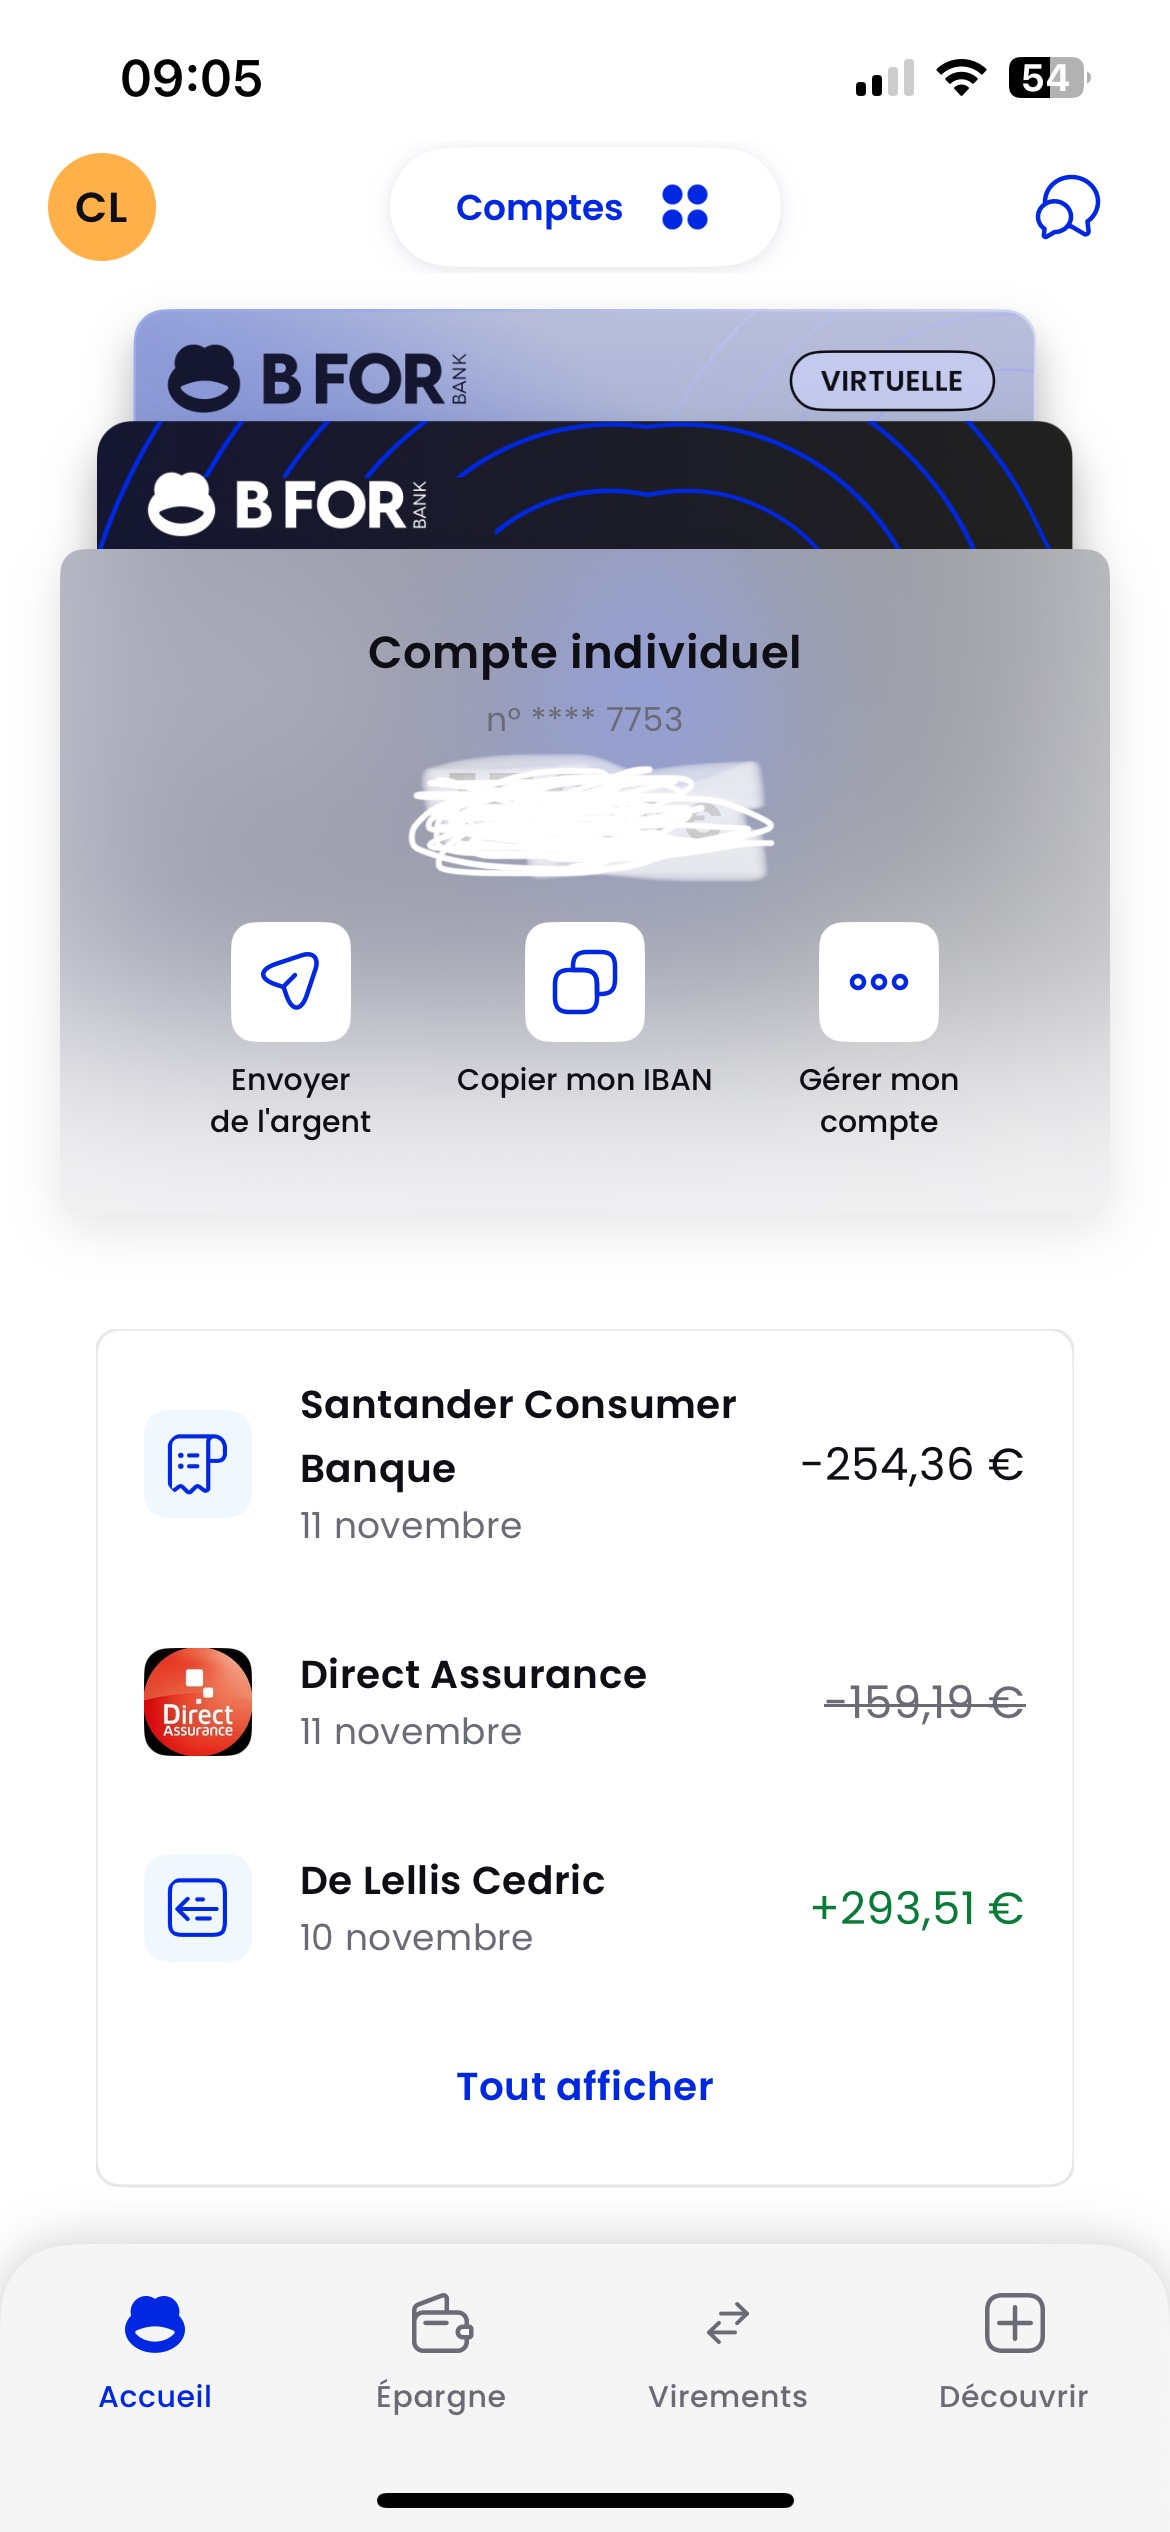
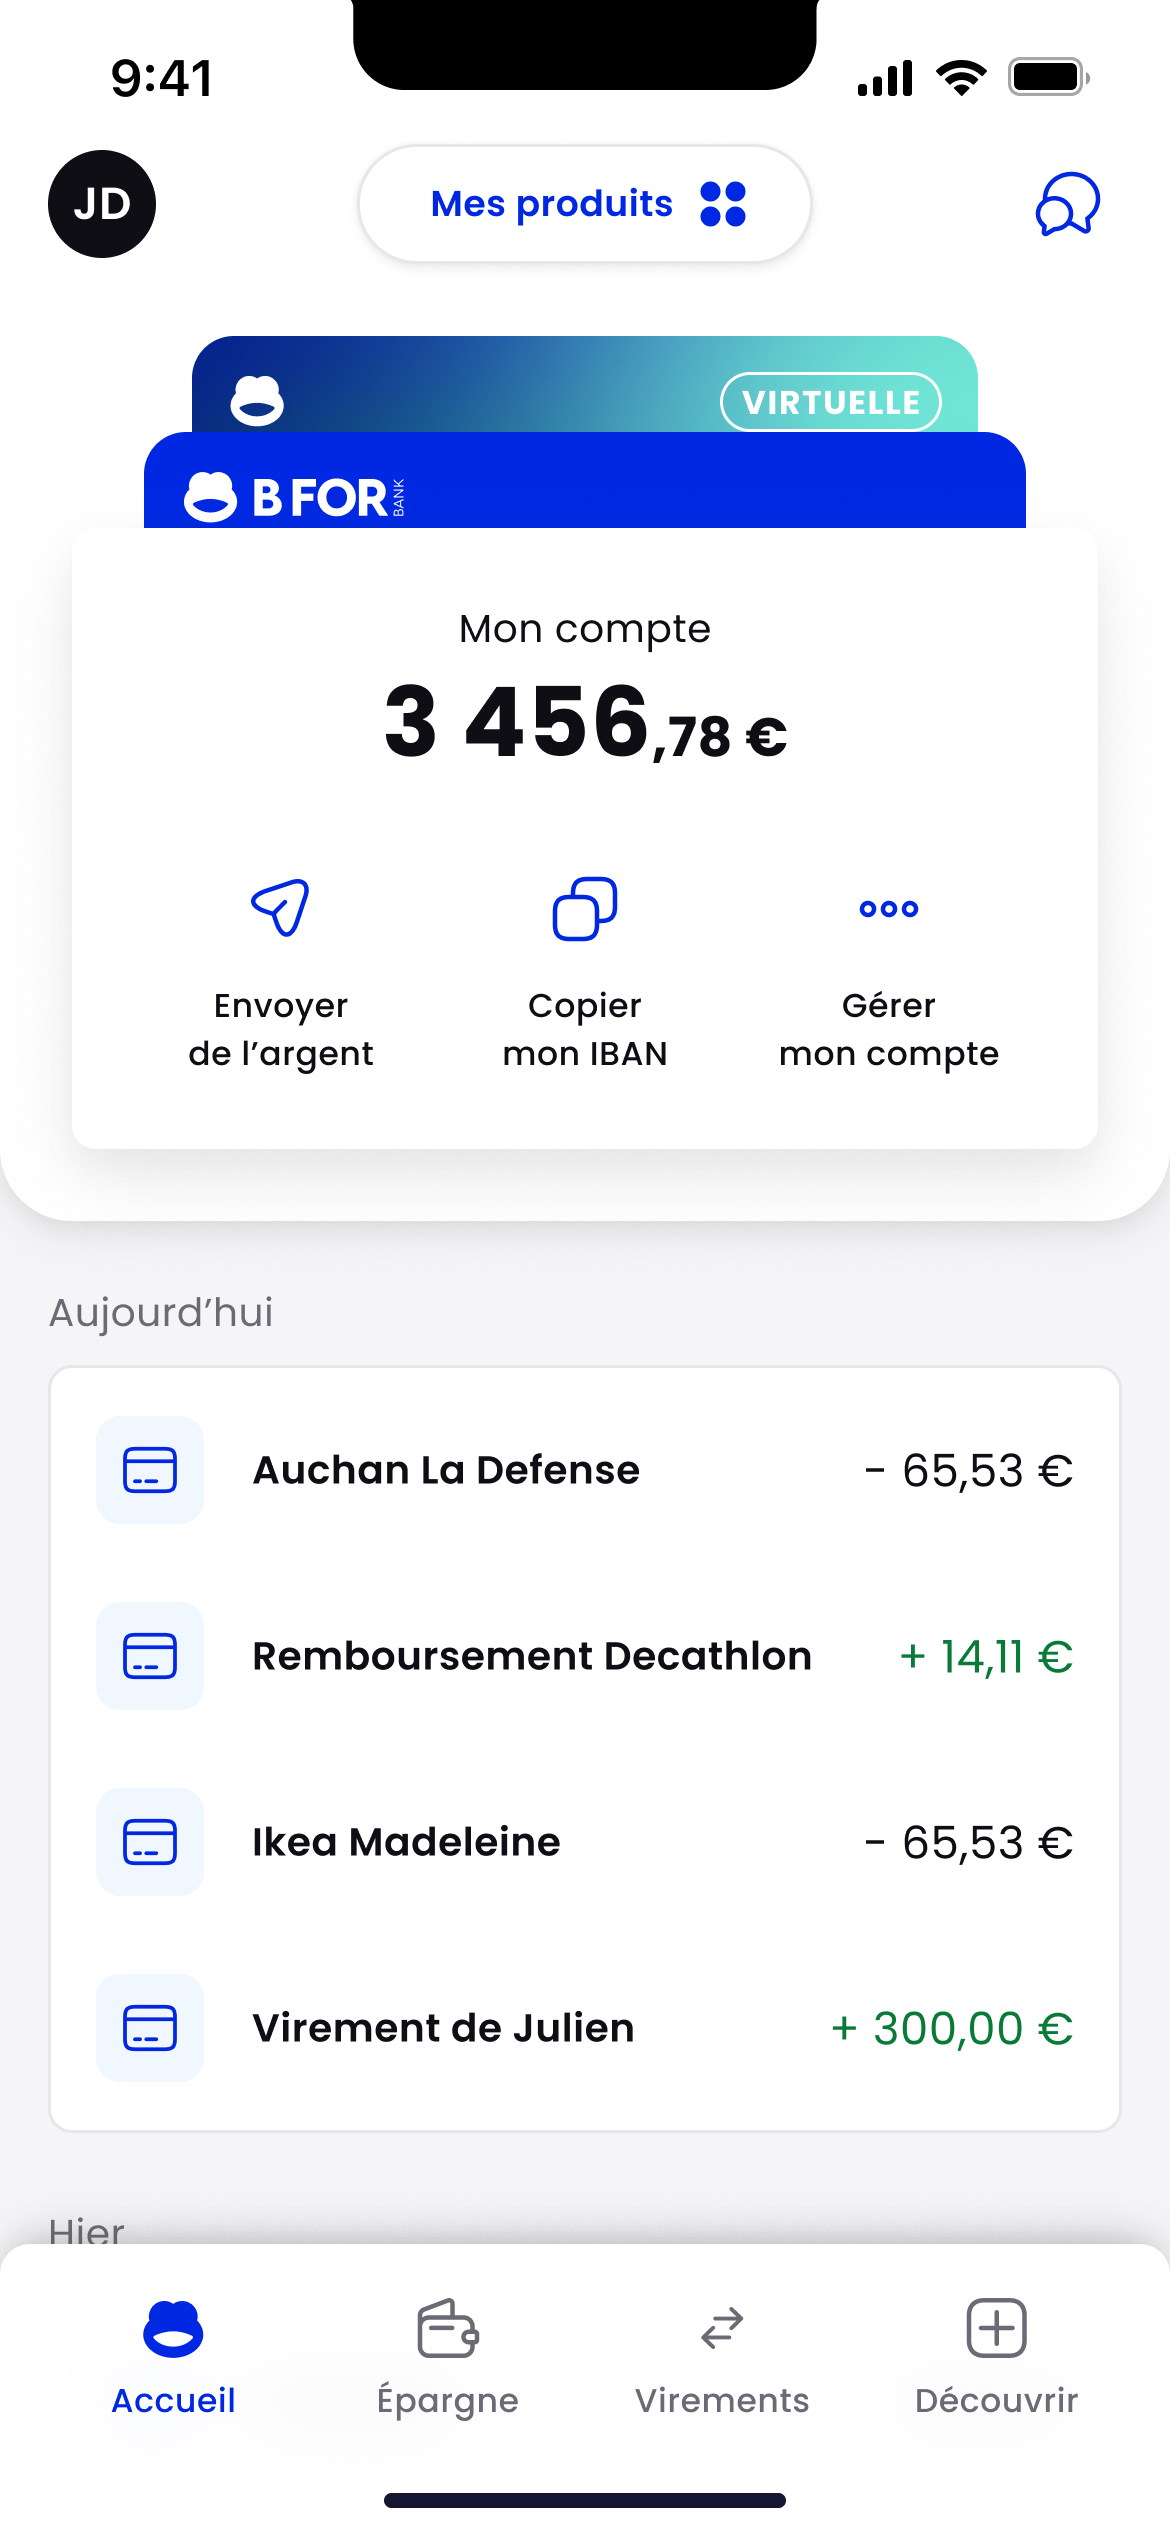
ajout virements

diff --git a/DemoApps/src/screens/VirementsScreen.jsx b/DemoApps/src/screens/VirementsScreen.jsx
@@ -1,0 +1,97 @@
+import React from "react";
+import virementsImg from "/images/virements.jpg";
+
+export default function VirementsScreen({ onNavigate }) {
+  return (
+    <div
+      className="screen slide-in-right"
+      style={{
+        backgroundImage: `url(${virementsImg})`,
+      }}
+    >
+      {/* Avatar (haut gauche) */}
+      <div
+        className="hotspot"
+        style={{ top: "4%", left: "5%", width: "10%", height: "5%" }}
+        onClick={() => onNavigate("profil")}
+      ></div>
+
+
+      {/* Envoyer de l’argent */}
+      <div
+        className="hotspot"
+        style={{ top: "26%", left: "8%", width: "28%", height: "12%" }}
+        onClick={() => alert("Envoyer de l'argent")}
+      ></div>
+
+      {/* Virements et prélèvements */}
+      <div
+        className="hotspot"
+        style={{ top: "26%", left: "36%", width: "28%", height: "12%" }}
+        onClick={() => alert("Virements et prélèvements")}
+      ></div>
+
+      {/* Gérer mes bénéficiaires */}
+      <div
+        className="hotspot"
+        style={{ top: "26%", left: "64%", width: "28%", height: "12%" }}
+        onClick={() => alert("Gérer mes bénéficiaires")}
+      ></div>
+
+      {/* Bénéficiaire 1 */}
+      <div
+        className="hotspot"
+        style={{ top: "41%", left: "8%", width: "84%", height: "7%" }}
+        onClick={() => alert("Albert Flores")}
+      ></div>
+
+      {/* Bénéficiaire 2 */}
+      <div
+        className="hotspot"
+        style={{ top: "50%", left: "8%", width: "84%", height: "7%" }}
+        onClick={() => alert("Kristin Watson")}
+      ></div>
+
+      {/* Bénéficiaire 3 */}
+      <div
+        className="hotspot"
+        style={{ top: "57%", left: "8%", width: "84%", height: "7%" }}
+        onClick={() => alert("Theresa Webb")}
+      ></div>
+
+      {/* Voir tout */}
+      <div
+        className="hotspot"
+        style={{ top: "64%", left: "76%", width: "20%", height: "4%" }}
+        onClick={() => onNavigate("beneficiaires")}
+      ></div>
+
+      {/* Bottom menu – Comptes */}
+      <div
+        className="hotspot"
+        style={{ bottom: "2%", left: "5%", width: "20%", height: "8%" }}
+        onClick={() => onNavigate("main", "left")}
+      ></div>
+
+      {/* Bottom menu – Épargne */}
+      <div
+        className="hotspot"
+        style={{ bottom: "2%", left: "28%", width: "20%", height: "8%" }}
+        onClick={() => onNavigate("epargne", "right")}
+      ></div>
+
+      {/* Bottom menu – Virements (déjà ici) */}
+      <div
+        className="hotspot"
+        style={{ bottom: "2%", left: "51%", width: "20%", height: "8%" }}
+      ></div>
+
+      {/* Bottom menu – Découvrir */}
+      <div
+        className="hotspot"
+        style={{ bottom: "2%", left: "74%", width: "20%", height: "8%" }}
+        onClick={() => alert("Découvrir")}
+      ></div>
+    </div>
+  );
+}

diff --git a/DemoApps/src/screens/MainScreen.jsx b/DemoApps/src/screens/MainScreen.jsx
@@ -22,14 +22,14 @@ export default function MainScreen({ onNavigate }) {
       <div
         className="hotspot"
         style={{ top: "4%", left: "40%", width: "20%", height: "5%" }}
-        onClick={() => onNavigate("accounts")}
+        onClick={() => alert("Mes produits")}
       ></div>
 
       {/* Icône messages (haut droite) */}
       <div
         className="hotspot"
         style={{ top: "4%", right: "5%", width: "10%", height: "5%" }}
-        onClick={() => onNavigate("messages")}
+        onClick={() => alert("chat")}
       ></div>
 
       {/* --- Carte compte --- */}
@@ -37,22 +37,22 @@ export default function MainScreen({ onNavigate }) {
       {/* Envoyer de l'argent */}
       <div
         className="hotspot"
-        style={{ top: "43%", left: "10%", width: "25%", height: "10%" }}
+        style={{ top: "33%", left: "10%", width: "25%", height: "10%" }}
         onClick={() => alert("Envoyer de l'argent")}
       ></div>
 
       {/* Copier IBAN */}
       <div
         className="hotspot"
-        style={{ top: "43%", left: "40%", width: "25%", height: "10%" }}
+        style={{ top: "33%", left: "40%", width: "25%", height: "10%" }}
         onClick={() => alert("IBAN copié !")}
       ></div>
 
       {/* Gérer mon compte */}
       <div
         className="hotspot"
-        style={{ top: "43%", left: "70%", width: "25%", height: "10%" }}
-        onClick={() => onNavigate("settings")}
+        style={{ top: "33%", left: "70%", width: "25%", height: "10%" }}
+        onClick={() => alert("Mon compte")}
       ></div>
 
       {/* --- Liste des transactions --- */}
@@ -60,16 +60,10 @@ export default function MainScreen({ onNavigate }) {
       {/* Zone cliquable sur la liste */}
       <div
         className="hotspot"
-        style={{ top: "65%", left: "10%", width: "80%", height: "20%" }}
-        onClick={() => onNavigate("transactions")}
+        style={{ top: "55%", left: "5%", width: "90%", height: "30%" }}
+        onClick={() => alert("transactions")}
       ></div>
 
-      {/* "Tout afficher" */}
-      <div
-        className="hotspot"
-        style={{ top: "87%", left: "35%", width: "30%", height: "5%" }}
-        onClick={() => onNavigate("transactions")}
-      ></div>
 
       {/* --- Barre de navigation du bas --- */}
 
@@ -91,7 +85,7 @@ export default function MainScreen({ onNavigate }) {
       <div
         className="hotspot"
         style={{ top: "92%", left: "50%", width: "25%", height: "8%" }}
-        onClick={() => onNavigate("transfer")}
+        onClick={() => onNavigate("virements")}
       ></div>
 
       {/* Découvrir */}

diff --git a/DemoApps/src/screens/BeneficiairesScreen.jsx b/DemoApps/src/screens/BeneficiairesScreen.jsx
@@ -1,0 +1,48 @@
+import React from "react";
+import beneficiairesImg from "/images/beneficiaires.jpg";
+
+export default function BeneficiairesScreen({ onNavigate }) {
+  return (
+    <div
+      className="screen" 
+      style={{
+        backgroundImage: `url(${beneficiairesImg})`,
+      }}
+    >
+      {/* Bouton retour */}
+      <div
+        className="hotspot"
+        style={{ top: "4%", left: "4%", width: "10%", height: "5%" }}
+        onClick={() => onNavigate("virements")}
+      ></div>
+
+      {/* Claire Martin */}
+      <div
+        className="hotspot"
+        style={{ top: "26%", left: "8%", width: "84%", height: "7%" }}
+        onClick={() => alert("Claire Martin")}
+      ></div>
+
+      {/* John Doe */}
+      <div
+        className="hotspot"
+        style={{ top: "36%", left: "8%", width: "84%", height: "7%" }}
+        onClick={() => alert("John Doe")}
+      ></div>
+
+      {/* Julien Dupont */}
+      <div
+        className="hotspot"
+        style={{ top: "46%", left: "8%", width: "84%", height: "7%" }}
+        onClick={() => alert("Julien Dupont")}
+      ></div>
+
+      {/* Ajouter un bénéficiaire */}
+      <div
+        className="hotspot"
+        style={{ bottom: "4%", left: "15%", width: "70%", height: "8%" }}
+        onClick={() => alert("Ajouter un bénéficiaire")}
+      ></div>
+    </div>
+  );
+}

diff --git a/DemoApps/src/App.jsx b/DemoApps/src/App.jsx
@@ -3,6 +3,8 @@ import Phone from "./components/Phone";
 import MainScreen from "./screens/MainScreen";
 import EpargneScreen from "./screens/EpargneScreen";
 import ProfilScreen from "./screens/ProfilScreen";
+import VirementsScreen from "./screens/VirementsScreen";
+import BeneficiairesScreen from "./screens/BeneficiairesScreen";
 import "./styles.css";
 
 export default function App() {
@@ -14,6 +16,10 @@ export default function App() {
         return <EpargneScreen onNavigate={setCurrent} />;
               case "profil":
         return <ProfilScreen onNavigate={setCurrent} />;
+              case "virements":
+        return <VirementsScreen onNavigate={setCurrent} />;
+              case "beneficiaires":
+        return <BeneficiairesScreen onNavigate={setCurrent} />;
 
       default:
         return <MainScreen onNavigate={setCurrent} />;
